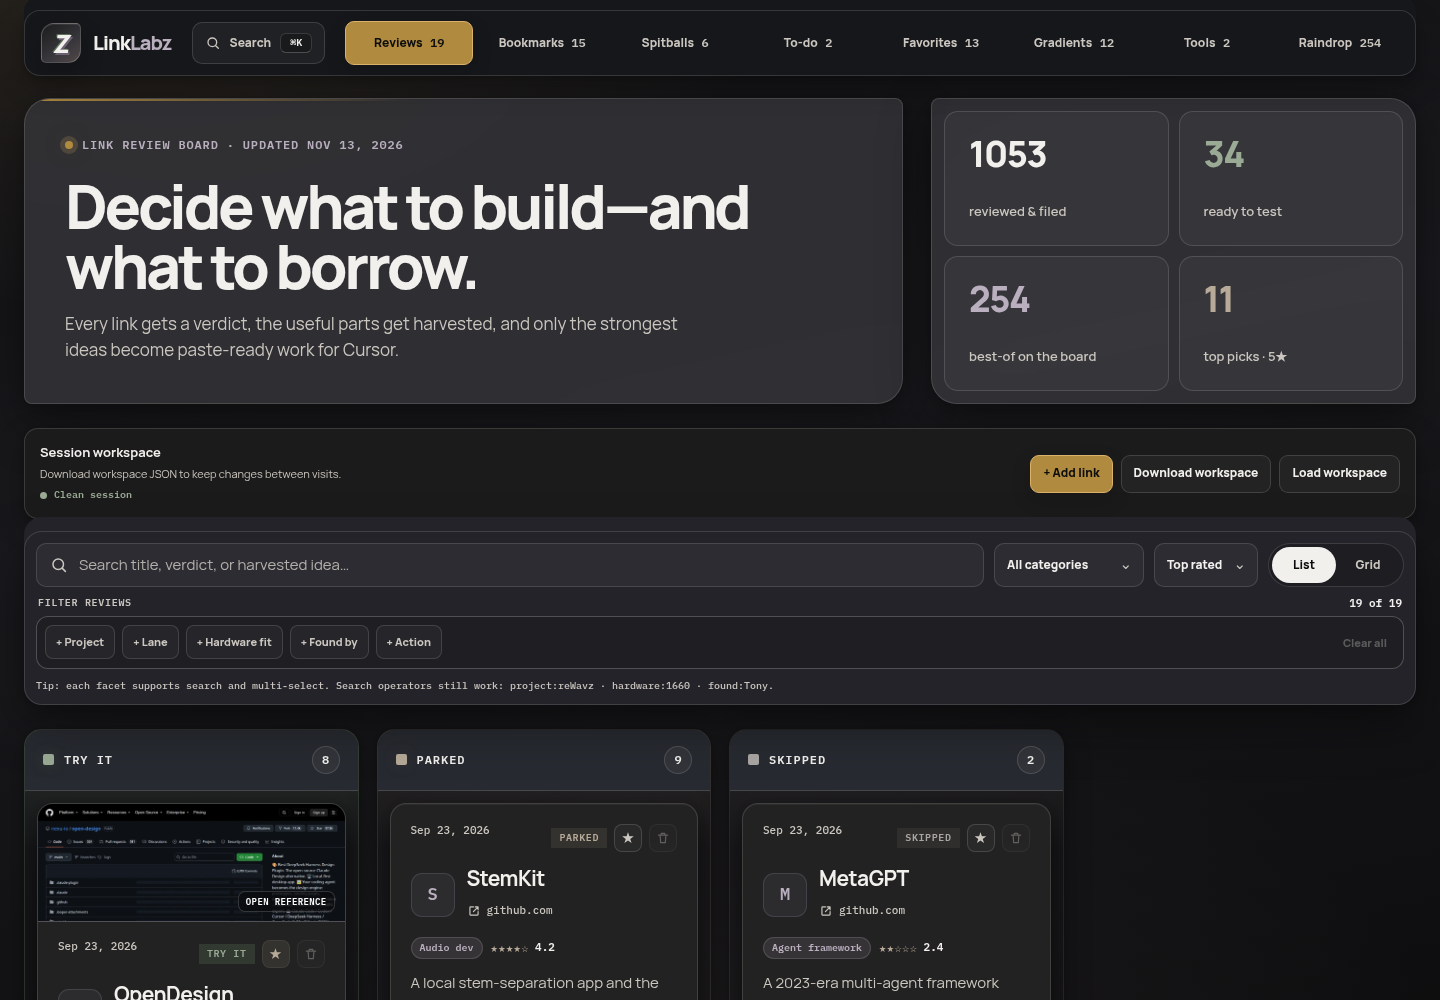
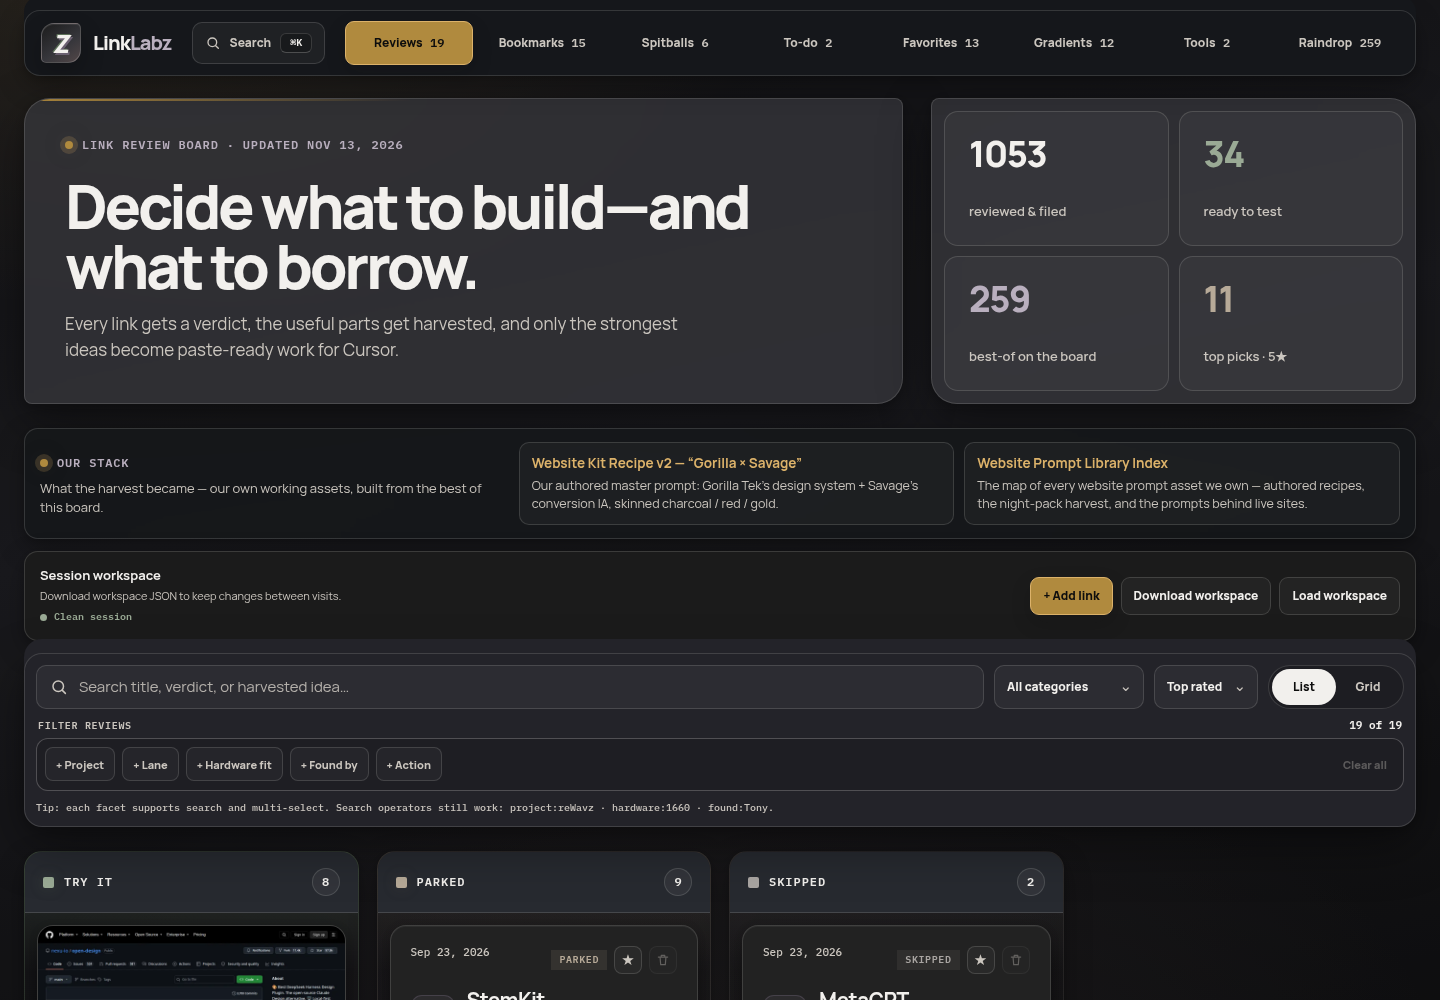
Round 23b screenshots + README stamp ?v=20261113-r23b
Fresh desktop / raindrop-deck / mobile captures of the live round-23b board (259 cards, Our Stack strip visible in the desktop hero shot; raindrop view shows 259 of 259 with Latest adds (5)). README image stamps bumped to ?v=20261113-r23b.

diff --git a/README.md b/README.md
@@ -9,7 +9,7 @@
 
 **Live preview:** https://agentzlab.github.io/LinkLabz/
 
-![LinkLabz — the review board, dark mode](assets/screenshot.png?v=20261113-r23)
+![LinkLabz — the review board, dark mode](assets/screenshot.png?v=20261113-r23b)
 
 ## What's inside
 
@@ -26,11 +26,11 @@ LinkLabz is Jon's visual link review board — a single-page app for working thr
 
 ## Screenshots
 
-![Raindrop keeper deck](assets/screenshot-raindrop.png?v=20261113-r23)
+![Raindrop keeper deck](assets/screenshot-raindrop.png?v=20261113-r23b)
 
 *The Raindrop keeper deck — graded cards; click through for the full verdict and harvest notes.*
 
-![LinkLabz at phone width](assets/screenshot-mobile.png?v=20261113-r23)
+![LinkLabz at phone width](assets/screenshot-mobile.png?v=20261113-r23b)
 
 *The board at phone width — the toolbar un-sticks on small screens so nothing jams.*
 
